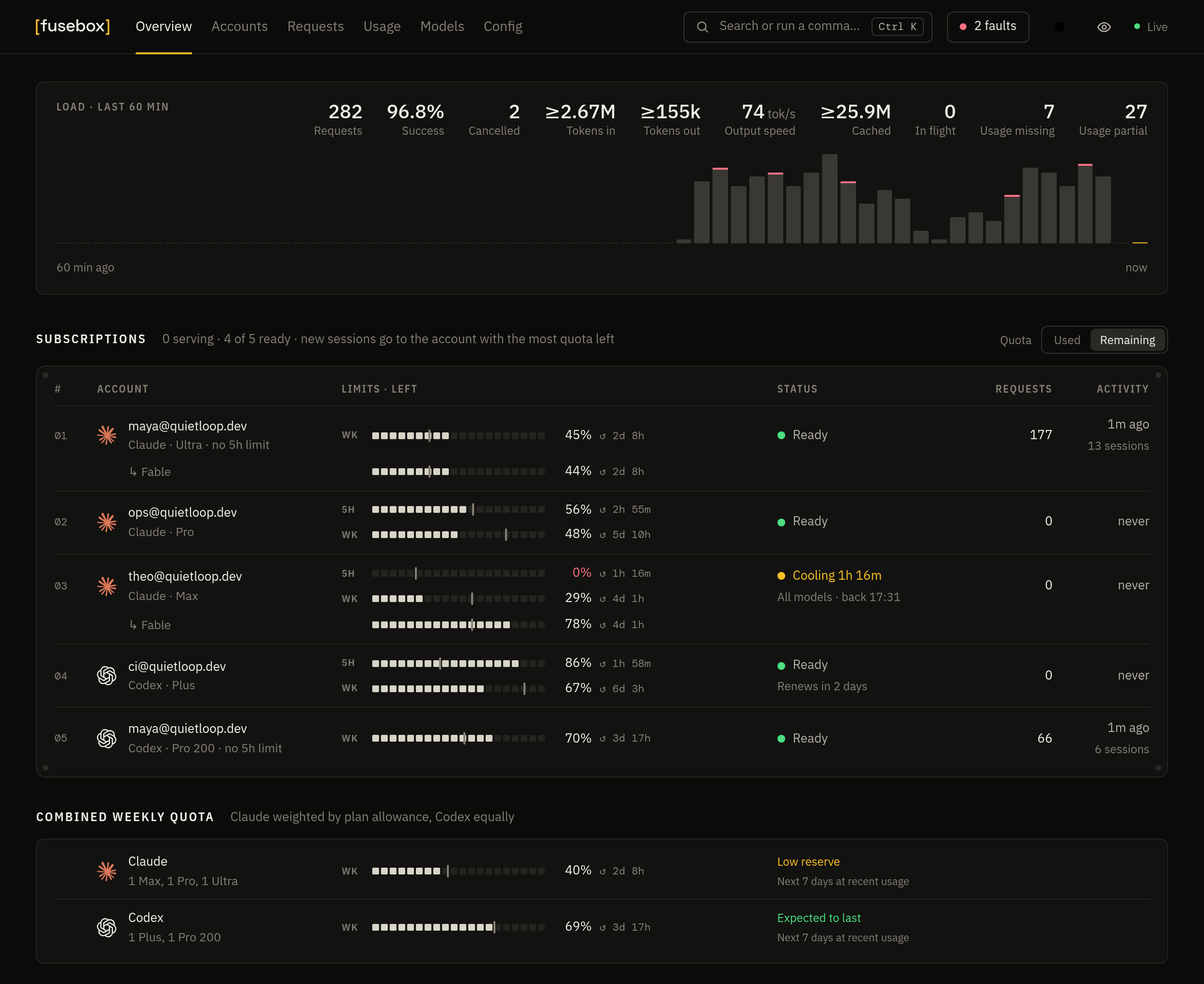
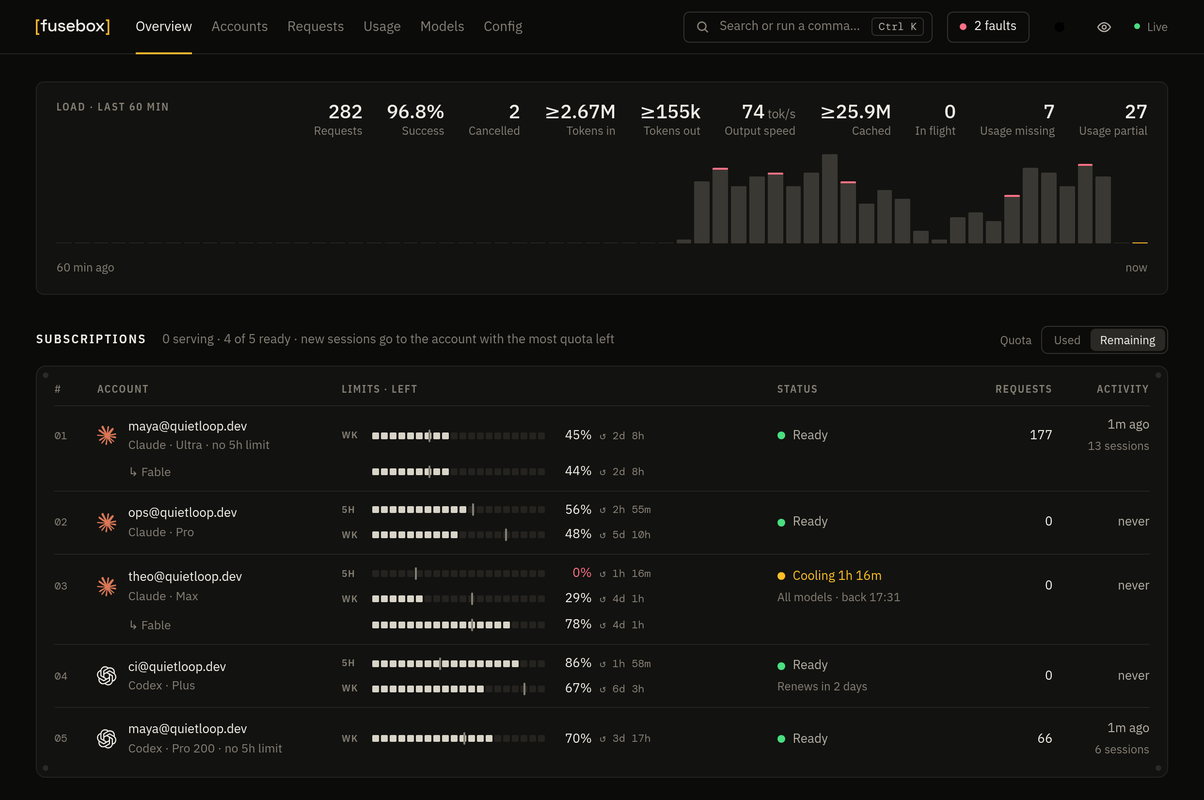
Docs: drop Combined weekly quota and its forecast
Remove docs/weekly-outlook.md and the mentions elsewhere, and crop the
section off the README's overview screenshot.

diff --git a/docs/dashboard.md b/docs/dashboard.md
@@ -6,13 +6,13 @@ Account details and drawers show each reported usage window separately, alongsid
 
 Meta subscriptions report a 5-hour window and a weekly window too. Meta has no usage endpoint, so Fusebox reads them from the subscription frame each response streams, and keeps the last reading across restarts. An idle account is also checked through Meta's key mint, which is free and returns the same key; it is used when the mint carries the usage, along with its tier name as the plan.
 
-Claude model limits, OAuth-app limits, and optional extra usage are kept distinct. Code-review/Cowork allowances and extra credits do not block ordinary chat or grant permission to spend on overages. Additional Codex limits with explicit model IDs (or a model ID as their metered-feature identifier) apply only to that model. Antigravity quota groups preserve independent bucket reset times; the provider's Gemini and Claude/GPT groups, or explicit model IDs, determine which models they constrain. Unknown groups remain informational. Antigravity reports a 5-hour and a weekly limit for each group, not for the account, so the lists draw the Gemini group's as the account's own **5H** and **WK** meters and the Claude and GPT group's as a child row (**↳ Claude & GPT**) with a meter for each; the account page names all four windows. Antigravity accounts also show their Google AI plan (**Ultra**, **Pro**, or **Free tier**) and their **Google AI credits** balance, read from Google's `loadCodeAssist` every six hours; credits are only shown, never spent. Google labels each quota bucket with an ID: `gemini-argon-` and `gemini-carbon-` buckets limit only those models (and take them out of the general Gemini one), other `gemini-` buckets the rest of Gemini, `3p-` buckets Claude and GPT. A bucket Google marks disabled is shown as such and limits nothing. With two or more Antigravity accounts, **Combined weekly quota** shows them together (Gemini as the account's week, Claude & GPT under it), and pace warnings and the **Used by** split cover them too; each group counts only its own models. When Google suspends an Antigravity account for a terms-of-service violation, or asks you to verify it, the account shows **Suspended** or **Verify** with Google's appeal or verify link, and requests skip it. A suspension stays until you clear the account's error (after appealing) or sign in again; Fusebox checks a verification every 10 minutes with a free `loadCodeAssist` call and puts the account back once Google no longer asks. While Google holds an account, its error stays Google's (other failures don't replace it, and **Clear all** cooldowns brings it back), the faults menu and notifications say **Suspended by Google** or **Google asks to verify this account**, and the combined weekly quota doesn't count on it. The hold survives a restart. Smart quota routing also accounts for the tightest applicable spending/model cap.
+Claude model limits, OAuth-app limits, and optional extra usage are kept distinct. Code-review/Cowork allowances and extra credits do not block ordinary chat or grant permission to spend on overages. Additional Codex limits with explicit model IDs (or a model ID as their metered-feature identifier) apply only to that model. Antigravity quota groups preserve independent bucket reset times; the provider's Gemini and Claude/GPT groups, or explicit model IDs, determine which models they constrain. Unknown groups remain informational. Antigravity reports a 5-hour and a weekly limit for each group, not for the account, so the lists draw the Gemini group's as the account's own **5H** and **WK** meters and the Claude and GPT group's as a child row (**↳ Claude & GPT**) with a meter for each; the account page names all four windows. Antigravity accounts also show their Google AI plan (**Ultra**, **Pro**, or **Free tier**) and their **Google AI credits** balance, read from Google's `loadCodeAssist` every six hours; credits are only shown, never spent. Google labels each quota bucket with an ID: `gemini-argon-` and `gemini-carbon-` buckets limit only those models (and take them out of the general Gemini one), other `gemini-` buckets the rest of Gemini, `3p-` buckets Claude and GPT. A bucket Google marks disabled is shown as such and limits nothing. With two or more Antigravity accounts, pace warnings and the **Used by** split cover them together, the Gemini group as the account's own limits and the Claude & GPT group separately; each group counts only its own models. When Google suspends an Antigravity account for a terms-of-service violation, or asks you to verify it, the account shows **Suspended** or **Verify** with Google's appeal or verify link, and requests skip it. A suspension stays until you clear the account's error (after appealing) or sign in again; Fusebox checks a verification every 10 minutes with a free `loadCodeAssist` call and puts the account back once Google no longer asks. While Google holds an account, its error stays Google's (other failures don't replace it, and **Clear all** cooldowns brings it back), the faults menu and notifications say **Suspended by Google** or **Google asks to verify this account**. The hold survives a restart. Smart quota routing also accounts for the tightest applicable spending/model cap.
 
 The **Models** tab groups every model id by family, shows aliases and model groups, and lists the order in which accounts would take a new session, with the next one marked. **Try a model** sends a prompt through routing like any request and shows which account answered and how fast. Its **Inspect a request** mode takes a request body as a client would send it (Responses, Chat Completions, Claude Messages or Gemini, with optional headers and a named client) and shows what Fusebox would send for it without sending anything: the model it becomes after `model-map`, model groups and `background-model`, the route and the account a new session would use, whether the body passes through or is translated, the upstream URL, headers and body with credentials and account ids redacted, the generation controls a translation drops, or the refusal the client would get. An inspection uses no quota and records no usage, log or session. The same is available as management-authenticated `POST /api/inspect` with `{"body": …, "format"?, "headers"?, "client"?, "model"?, "stream"?}`.
 
 **Who used the quota.** Under each meter, an account's page shows which of your named clients and shared keys used the current window and the last one, in points of the window, plus what was used outside Fusebox (claude.ai, the desktop app). Its coding sessions show their share of the current windows. The Usage page's **Top clients** ranks every client by name in the selected range, with its share of the estimated cost, its tokens and the models it used. Tokens and models are what Fusebox recorded; the points of a window are estimates: each rise in the provider's reported use is split over the attempts that finished since the previous rise, by their API list price ([how](usage-costs.md#who-used-a-subscription-window)).
 
-Each quota meter has a thin mark where usage would be if spread evenly over the window. Each meter shows a countdown to the provider-reported reset, with the full reset time on hover. Claude subscriptions show their plan (Ultra, Max, Pro), as Claude names it; Max 20x and Max 5x were renamed Ultra and Max on 30 October 2026. Verified Ultra accounts, and ChatGPT Pro accounts while OpenAI keeps Pro free of it, have no five-hour limit: Fusebox reads this from each usage reading, not the plan name. The finding is kept in `.quota.state` in the auth directory, so a restart doesn't bring the meter back while the usage endpoint is busy; a reported five-hour window clears it. When a provider's usage endpoint answers 429, the quota check, banked resets and the window starter all wait for its Retry-After (one to 30 minutes) before asking again. The account lists show only their weekly meter, with **no 5h limit** under the account name; the account page explains it, and the window starter is hidden and leaves them alone. Codex Pro subscriptions show **Pro 100**, **Pro 200** or **Pro 500** when ChatGPT's active subscription identifies the tier; these names refer to the USD list-price tiers, not the account's local-currency bill or a usage multiplier. Plan details are checked every six hours without using model tokens. ChatGPT accounts also show when the subscription charges next (**Ends** when cancelled), with a notification two days before (`notifications.renewals`), a day before (`notifications.renewals-day-before`, off by default), or both. Claude and Meta give no billing date to signed-in tools, so their account page has **Set billing date** in the sign-in card: enter the day of the last or next charge and Fusebox counts on from it every month (or every year, for Claude Pro, the only one of these plans sold yearly), with the same reminder. **Cancelled** makes it **Ends** on the first billing day still to come. The day is kept as `billing` in the account's credential file, with the plan it was set on: after a plan change, which can move the billing day, it shows as an estimate to check and sends no reminder until it is saved again. The overview shows **Renews tomorrow** (or **Ends**) under a subscription's status in the last three days. If ChatGPT does not expose a recognized active subscription, the broad usage plan (such as Pro) is shown. The overview's **Combined weekly quota** shows each provider's subscriptions together as one weekly row, drawn like an account's: the current combined quota in the Used/Remaining mode, the even-pace mark and a countdown to the next account's reset. Claude accounts count by their published weekly allowance (Pro 1, Max 5, Ultra 10) when every plan is known and equally otherwise. A weekly limit on one model, such as Claude's Fable limit (up to half the weekly allowance), shows as a child row (**↳ Fable**) under its subscription and under the combined row, coloured as a whole when it runs low. Fusebox reads it whether or not Claude marks it as the binding limit (`is_active`), and Fable requests also weigh it when choosing an account. Beside the bar, a forecast of the next seven days says whether the quota will last. It uses recent provider-reported quota consumption, the average of the last day's rate and the last week's, spends the account resetting first, and refills each account only at its scheduled reset; unused quota expires. **Expected to last**, **Low reserve** (below 10%) or **Quota gap expected** describes the estimate; a gap names the projected depletion and recovery times. New accounts show **Learning usage** until six hours of continuous readings are available. The week of history survives resets and restarts; missing quota/reset data, expired resets awaiting confirmation, stale readings or a required sign-in make the forecast unavailable. This forecasts weekly capacity assuming requests can move between accounts, not uninterrupted service under five-hour/model limits. Banked resets are not assumed. See [the forecast calculation](weekly-outlook.md). The Accounts page lines up every subscription's next weekly reset over seven days, and each account page sets whether it takes new sessions **First**, **Normal** or **Last**.
+Each quota meter has a thin mark where usage would be if spread evenly over the window. Each meter shows a countdown to the provider-reported reset, with the full reset time on hover. Claude subscriptions show their plan (Ultra, Max, Pro), as Claude names it; Max 20x and Max 5x were renamed Ultra and Max on 30 October 2026. Verified Ultra accounts, and ChatGPT Pro accounts while OpenAI keeps Pro free of it, have no five-hour limit: Fusebox reads this from each usage reading, not the plan name. The finding is kept in `.quota.state` in the auth directory, so a restart doesn't bring the meter back while the usage endpoint is busy; a reported five-hour window clears it. When a provider's usage endpoint answers 429, the quota check, banked resets and the window starter all wait for its Retry-After (one to 30 minutes) before asking again. The account lists show only their weekly meter, with **no 5h limit** under the account name; the account page explains it, and the window starter is hidden and leaves them alone. Codex Pro subscriptions show **Pro 100**, **Pro 200** or **Pro 500** when ChatGPT's active subscription identifies the tier; these names refer to the USD list-price tiers, not the account's local-currency bill or a usage multiplier. Plan details are checked every six hours without using model tokens. ChatGPT accounts also show when the subscription charges next (**Ends** when cancelled), with a notification two days before (`notifications.renewals`), a day before (`notifications.renewals-day-before`, off by default), or both. Claude and Meta give no billing date to signed-in tools, so their account page has **Set billing date** in the sign-in card: enter the day of the last or next charge and Fusebox counts on from it every month (or every year, for Claude Pro, the only one of these plans sold yearly), with the same reminder. **Cancelled** makes it **Ends** on the first billing day still to come. The day is kept as `billing` in the account's credential file, with the plan it was set on: after a plan change, which can move the billing day, it shows as an estimate to check and sends no reminder until it is saved again. The overview shows **Renews tomorrow** (or **Ends**) under a subscription's status in the last three days. If ChatGPT does not expose a recognized active subscription, the broad usage plan (such as Pro) is shown. A weekly limit on one model, such as Claude's Fable limit (up to half the weekly allowance), shows as a child row (**↳ Fable**) under its subscription, coloured as a whole when it runs low. Fusebox reads it whether or not Claude marks it as the binding limit (`is_active`), and Fable requests also weigh it when choosing an account. The Accounts page lines up every subscription's next weekly reset over seven days, and each account page sets whether it takes new sessions **First**, **Normal** or **Last**.
 
 Sharing a screenshot or your screen? The eye button in the top bar (or <kbd>.</kbd>) hides every email and API key on the page, and copy buttons still copy the real values.
 

diff --git a/DESIGN.md b/DESIGN.md
@@ -174,9 +174,8 @@ Flat. Panels are `surface` with a 1px `line` hairline. The only shadow is on flo
 ## Components
 
 - **Segmented quota meter.** 20 segments of 5%, 9px tall (10px in the drawer, 20px on the account page), 2px gap, 180px at most. Lit segments are `meter` below 75% used, `warn` from 75% and `err` from 95%; the thresholds always measure used, even in Remaining mode. Off segments are `line`. To the right: the percentage ("<1%" and ">99%" at the ends), then a live reset countdown such as "↺ 2h 14m" or "↺ 3d 7h" in DM Mono for both 5H and WK. Use at most two units, omit zero suffixes, and show "↺ <1m" below one minute. Reserve 10ch for alignment; the full reset date, local time and timezone appear only in the hover tooltip.
-- **Pace mark.** A 2px `fg-3` tick across a quota meter where usage would be if spread evenly over the window, mirrored in Remaining mode. When the pace so far would use the window up before it resets (at least a quarter of the window gone, 20% used), the reset cell reads "out 1h 40m" in `warn`; the hover says when it runs out and when it resets. A provider's combined weekly row is drawn the same way, with its subscriptions' weighted even pace and the next account's reset.
-- **Model rows.** On the overview, a weekly limit on one model (Claude's Fable weekly limit) is a child row of its subscription and of the provider's combined row: "↳ Fable" in sentence case, `fg-3`, 12.5px, with its own meter, percentage, pace mark and countdown. On wider screens it is a line of its own: the label sits under the account name (past the logo and gap, 32px) and the meter under WK's, with an empty label slot, and its status cells stay empty. On a phone it follows WK inside the meters, and the list's meter labels widen to 52px to fit it. When it runs low the whole child row takes the state colour (label, segments, percentage, reset): `warn` from 75% used, `err` from 95%. The other lists keep 5H and WK; the account page shows every window.
-- **Combined weekly status.** Beside a provider's combined weekly row, the forecast's verdict: **Expected to last** in `ok`, **Low reserve** in `warn` or **Quota gap expected** in `err`, with an 11px `fg-3` line under it. The bar never shows a forecast.
+- **Pace mark.** A 2px `fg-3` tick across a quota meter where usage would be if spread evenly over the window, mirrored in Remaining mode. When the pace so far would use the window up before it resets (at least a quarter of the window gone, 20% used), the reset cell reads "out 1h 40m" in `warn`; the hover says when it runs out and when it resets.
+- **Model rows.** On the overview, a weekly limit on one model (Claude's Fable weekly limit) is a child row of its subscription: "↳ Fable" in sentence case, `fg-3`, 12.5px, with its own meter, percentage, pace mark and countdown. On wider screens it is a line of its own: the label sits under the account name (past the logo and gap, 32px) and the meter under WK's, with an empty label slot, and its status cells stay empty. On a phone it follows WK inside the meters, and the list's meter labels widen to 52px to fit it. When it runs low the whole child row takes the state colour (label, segments, percentage, reset): `warn` from 75% used, `err` from 95%. The other lists keep 5H and WK; the account page shows every window.
 - **Output speed.** Usage, a card between the Claude Code entrypoints and the breakdown: models first, each with its output speed in DM Mono tokens a second and a 6px `meter` bar, time to first token, its share of calls on Fast, the change against the period before (`ok` from +3%, `warn` from −3%), tokens out and calls. A model that ran at more than one speed tier gets a child row per tier ("↳ Fast", "↳ Standard", 12.5px `fg-3`, a 4px `fg-3` bar) and a `Fast` tag. A 10px square before the logo says whether the model is charted: outlined when not, filled with its line colour when it is. Below the table the charted models by day, one 2px line each in the cost chart's hues, Fast dashed and Ultrafast dotted in the model's colour, end labels at the right and a readout on hover; at most six models at a time. Overview, Load · last 60 min: an Output speed figure whose hover lists the busiest models and opens the Usage page.
 - **Reset timeline.** Accounts, above the list, with two or more subscriptions: the next seven days on one hairline with day ticks, each subscription's weekly reset as its 14px logo in a 22px tile (`warn`/`err` border by usage), close resets on up to three lanes. Clicking opens the account.
 - **Review sheet.** Every config save first shows the file's changed lines in a 760px sheet like the palette: removed lines `del-bg` and struck through in `fg-3`, added lines `add-bg` in `fg`, three lines of context, longer runs folded to "⋯ 12 unchanged lines". **Keep editing** and **Save**.

diff --git a/docs/notifications.md b/docs/notifications.md
@@ -142,7 +142,7 @@ The ✕ beside a fault in the dashboard's faults menu, or in the iPhone app's Fa
 
 The same socket's `load` event says what each busy account is doing: `in_flight` requests, `sessions` seen in the last five minutes (the dashboard's live sessions, and what smart-quota routing weighs), and `ongoing_sessions` seen in the last 30 minutes, which still counts a session waiting on its user or a long tool run. Each counts calls in flight, and no window outlasts `session-affinity-idle-seconds`.
 
-`kind` is `signin`, `quota`, `rate_limit`, `error`, `failures`, `pace` or `provider`. A `pace` fault says a subscription window would run out before it renews at its pace so far, and its `detail` names the client that used most of it ([who used a window](usage-costs.md#who-used-a-subscription-window)); it is never pushed and has `"badge": false`, so it does not count on the app badge. A provider with two or more enabled subscriptions gets no `pace` fault for any one of them: smart-quota routing runs down the account that renews first on purpose. It gets one per window for all of them instead (`pace:pool:<provider>:<window>`, or `pace:pool:<provider>:<window>:<model>` for a model's own limit, with no `account_id` or `label`), raised only when their combined remaining quota, at their combined pace so far, runs out before renewals bring capacity back. Its `until` is the renewal that does, and its `detail` names the client that used most of the windows. Whole-account weekly warnings use the forecast of the overview's [Combined weekly quota](weekly-outlook.md), including recent consumption and all scheduled resets over the coming seven days; insufficient or stale data produces no forecast warning. Other windows use their pace so far. The accounts count as on the outlook: by weekly plan allowance for Claude (Pro 1, Max 5, Ultra 10) when every plan is known, equally otherwise. A model's own limit is pooled only when every subscription has one, since an account without one takes that model's requests under its other limits. For the same reason there is no five-hour pool while any member without a five-hour limit (a verified Claude Ultra account) can take the overflow: signed in, not paused as a whole and with weekly quota left. Otherwise the pool is the members that have the limit. `level` is `err` while requests fail and `warn` while an account sits out for a while. `title` and `detail` never contain a countdown: `until` is when the fault should clear by itself, so a client counts down on its own and a fault only changes when something does. A whole provider (`kind: "provider"`), like a provider's pace warning, has no `account_id` or `label`. `path` is where the fault opens in the dashboard. Unlike notifications, the list includes rate limits and doesn't wait for a second check.
+`kind` is `signin`, `quota`, `rate_limit`, `error`, `failures`, `pace` or `provider`. A `pace` fault says a subscription window would run out before it renews at its pace so far, and its `detail` names the client that used most of it ([who used a window](usage-costs.md#who-used-a-subscription-window)); it is never pushed and has `"badge": false`, so it does not count on the app badge. A provider with two or more enabled subscriptions gets no `pace` fault for any one of them: smart-quota routing runs down the account that renews first on purpose. It gets one per window for all of them instead (`pace:pool:<provider>:<window>`, or `pace:pool:<provider>:<window>:<model>` for a model's own limit, with no `account_id` or `label`), raised only when their combined remaining quota, at their combined pace so far, runs out before renewals bring capacity back. Its `until` is the renewal that does, and its `detail` names the client that used most of the windows. The accounts count by weekly plan allowance for Claude (Pro 1, Max 5, Ultra 10) when every plan is known, equally otherwise. A model's own limit is pooled only when every subscription has one, since an account without one takes that model's requests under its other limits. For the same reason there is no five-hour pool while any member without a five-hour limit (a verified Claude Ultra account) can take the overflow: signed in, not paused as a whole and with weekly quota left. Otherwise the pool is the members that have the limit. `level` is `err` while requests fail and `warn` while an account sits out for a while. `title` and `detail` never contain a countdown: `until` is when the fault should clear by itself, so a client counts down on its own and a fault only changes when something does. A whole provider (`kind: "provider"`), like a provider's pace warning, has no `account_id` or `label`. `path` is where the fault opens in the dashboard. Unlike notifications, the list includes rate limits and doesn't wait for a second check.
 
 ## Privacy
 

diff --git a/docs/usage-costs.md b/docs/usage-costs.md
@@ -43,7 +43,7 @@ Subscriptions run out in percent of a 5-hour or weekly window, and the providers
 
 These are estimates and labelled so. The provider's own accounting is per token and model, and Fusebox sees only the sum. Readings that arrive with a response describe the window before that response's own work, so each attempt is usually explained by the next reading. Model-scoped windows (such as a weekly Opus limit) count only matching models.
 
-A client is its key: a named client by its name, a shared key from `api-keys` as "Shared key" and the start of its hash. Only a request without a key is named by its program. Each account's page shows, under every meter, which clients used the current window and the last one; its coding sessions show their share of the current windows. The Usage page's **Top clients** ranks the clients in the selected range and filters by estimated cost, with each one's share of the cost, its tokens and its models; it names clients only, not the subscription accounts they used. A window that would run out before it renews at its pace so far appears in the faults menu, naming the client that used most of it; it is not pushed and does not count on the app badge. For a provider with several subscriptions the warning is for all of them together, and names the client that used most of their windows, each account counting as it does on the overview's Combined weekly quota. Weekly pool warnings use the same recent-consumption forecast as the outlook ([calculation](weekly-outlook.md)). The current and last windows and the bounded recent quota history used for forecasts survive restarts in `<auth-dir>/.quota-attribution.state`; the usage database keeps no history of them.
+A client is its key: a named client by its name, a shared key from `api-keys` as "Shared key" and the start of its hash. Only a request without a key is named by its program. Each account's page shows, under every meter, which clients used the current window and the last one; its coding sessions show their share of the current windows. The Usage page's **Top clients** ranks the clients in the selected range and filters by estimated cost, with each one's share of the cost, its tokens and its models; it names clients only, not the subscription accounts they used. A window that would run out before it renews at its pace so far appears in the faults menu, naming the client that used most of it; it is not pushed and does not count on the app badge. For a provider with several subscriptions the warning is for all of them together, and names the client that used most of their windows, each Claude account counting by its plan's weekly allowance (Pro 1, Max 5, Ultra 10) when every plan is known, and every account equally otherwise. The current and last windows survive restarts in `<auth-dir>/.quota-attribution.state`; the usage database keeps no history of them.
 
 ## Output speed
 

diff --git a/README.md b/README.md
@@ -20,7 +20,7 @@ Point Claude Code, Codex, your editor or any SDK at one URL and stop caring whic
 
 <br>
 
-<img src="assets/screenshots/overview.png" alt="Fusebox dashboard: an hour of load, every subscription's 5-hour and weekly limits with its plan, and each provider's combined weekly limit with a forecast" width="100%">
+<img src="assets/screenshots/overview.png" alt="Fusebox dashboard: an hour of load and every subscription's 5-hour and weekly limits with its plan" width="100%">
 
 <br>
 
@@ -32,7 +32,7 @@ Point Claude Code, Codex, your editor or any SDK at one URL and stop caring whic
 - **Many accounts, no babysitting.** Each new coding session goes to the account with the most quota left and stays there, so its prompt cache keeps paying off. Used-up accounts sit out until they reset, failed requests move to the next account (even mid-stream), and sign-ins refresh themselves.
 - **A key per tool.** Each machine or tool gets its own key, with its own models, request rate, daily tokens, monthly budget and end date. Model groups give one name to several models that back each other up.
 - **Images, video and WebSockets.** Image generation and edits, xAI video, and Codex's WebSocket sessions, relayed natively.
-- **A dashboard you'll actually open.** Live 5-hour and weekly limits for every subscription, a forecast of whether the week's quota will last, a request log that explains each routing decision, cost per client, and a config editor. It works on a phone, and installs as an app with push notifications.
+- **A dashboard you'll actually open.** Live 5-hour and weekly limits for every subscription, a request log that explains each routing decision, cost per client, and a config editor. It works on a phone, and installs as an app with push notifications.
 - **Drop-in for CLIProxyAPI.** Same credential files, `config.yaml`, Docker paths and flags.
 
 ## Install
@@ -183,7 +183,7 @@ gemini-api-key:
 | --- | --- |
 | [Install and run](docs/install.md) | Binary, Docker, CLIProxyAPI, servers, HTTPS, monitoring |
 | [Tools, endpoints and models](docs/api.md) | Client setup, endpoints, providers, new models, images |
-| [The dashboard](docs/dashboard.md) | Quota meters, forecast, notifications, banked resets |
+| [The dashboard](docs/dashboard.md) | Quota meters, notifications, banked resets |
 | [Configuration](docs/configuration.md) | Settings, clients and their limits, model groups |
 | [Routing, retries and sessions](docs/routing.md) | Account choice, failover, prompt caching |
 | [Notifications](docs/notifications.md) · [Moving Fusebox](docs/moving.md) · [Source addresses](docs/source-addresses.md) | |

diff --git a/docs/moving.md b/docs/moving.md
@@ -35,7 +35,7 @@ until it is signed in again. Run one proxy per auth directory.
      lift early: accounts are tried again, and one held out after failed
      refreshes is retried.
    - `.quota-attribution.state` — which clients and sessions used each quota
-     window, and the weekly outlook history. Lost, the history starts again.
+     window. Lost, it starts again.
    - `.routing-sessions.state` — coding-session account assignments. Lost,
      sessions move accounts and lose their prompt caches.
    - `.quota.state` — last quota readings, including confirmed no-5h-limit
